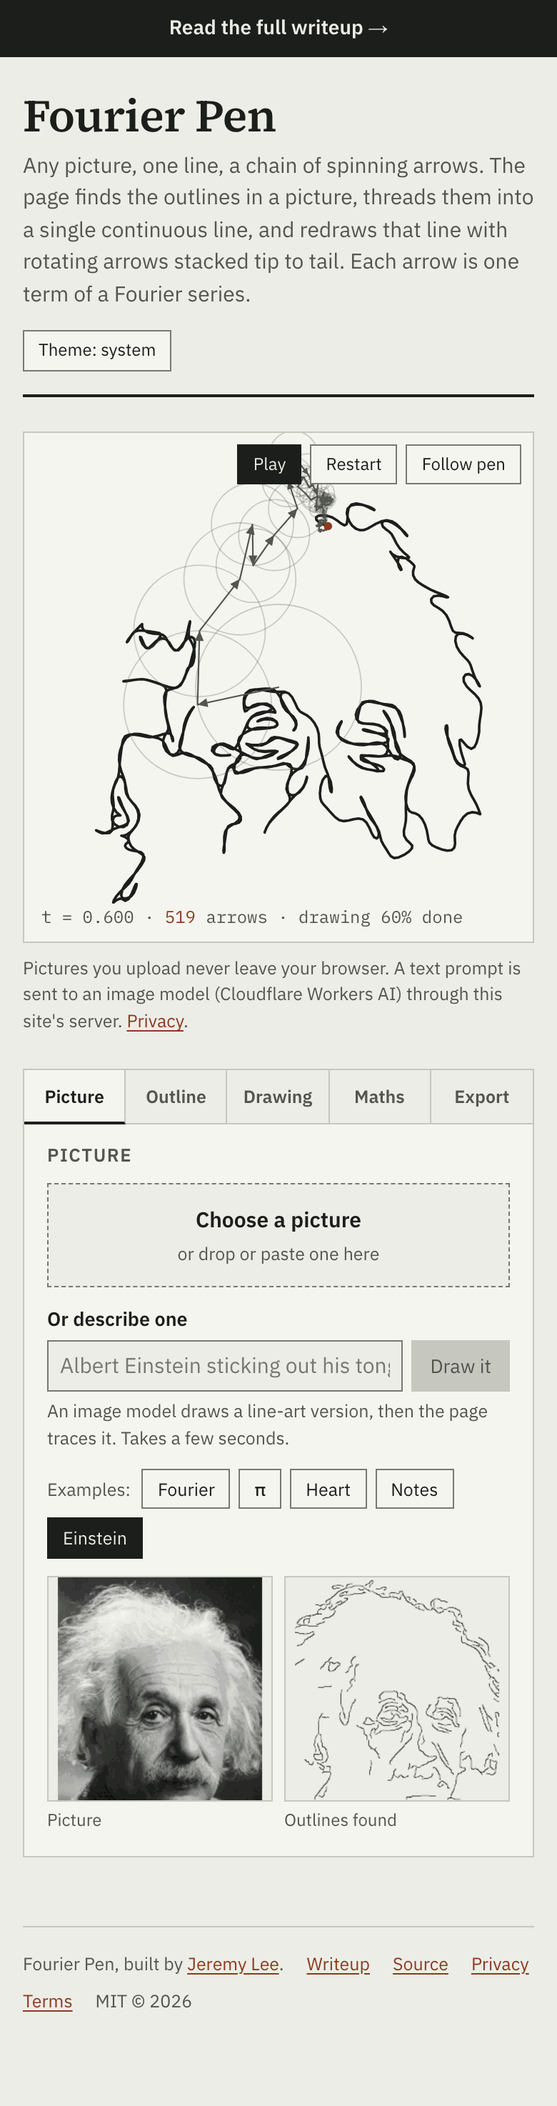
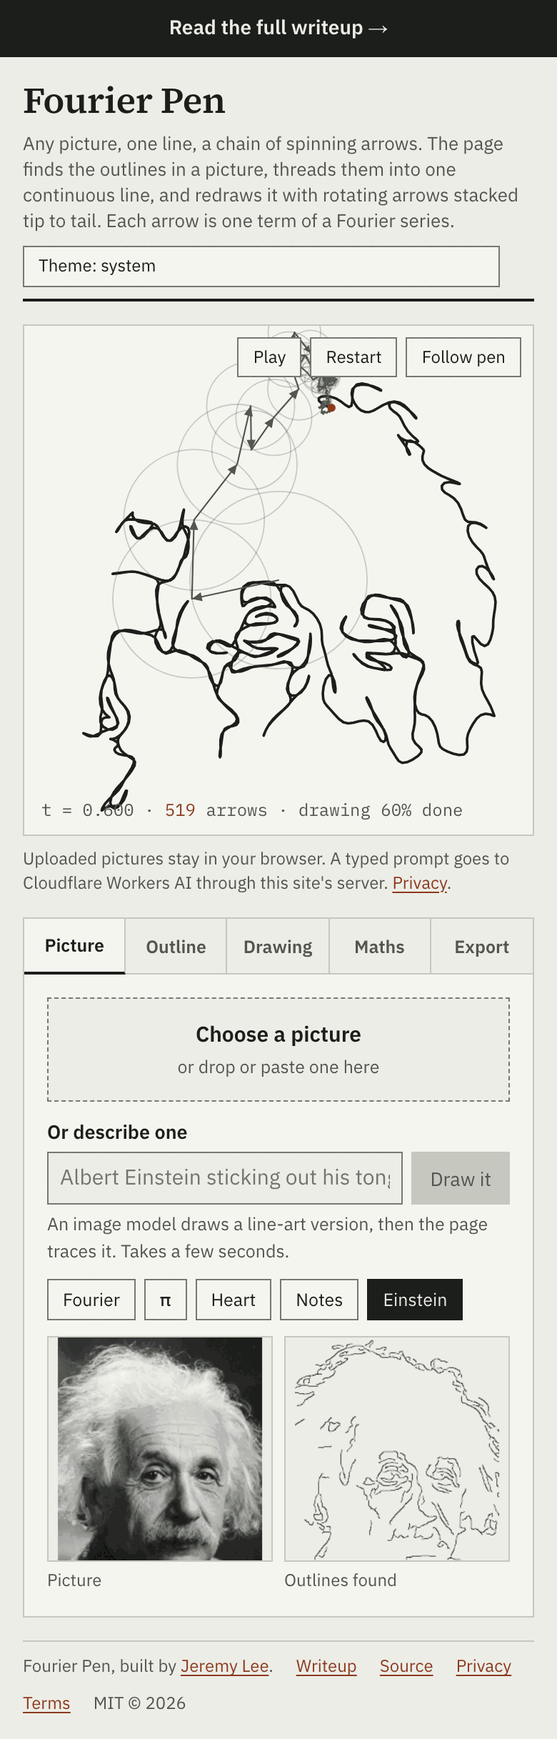
Fit the whole page on one desktop screen
Stage and panel share a viewport-derived height, the header is one row,
the footer one line, export buttons are a compact grid, and the maths
tab shows eight arrows. Measured zero page overflow at 1920x969,
1512x862, 1440x790 and 1280x680. The writeup gains a whole-screen
figure and fresh panel captures.

Changed region(s): [[0.0308, 0.1873, 0.9538, 0.9992], [0.0, 0.0, 1.0, 0.1873]]

diff --git a/styles.css b/styles.css
@@ -29,7 +29,10 @@ html{-webkit-text-size-adjust:100%}
 body{margin:0;background:var(--paper);color:var(--ink);font-family:var(--font-body);
   font-size:15px;line-height:1.5;-webkit-font-smoothing:antialiased;
   padding-left:max(16px,env(safe-area-inset-left,0px));padding-right:max(16px,env(safe-area-inset-right,0px));
-  padding-bottom:var(--s5)}
+  padding-bottom:var(--s2)}
+/* Desktop: the stage and the panel share one height, sized so the whole page fits the viewport.
+   220px is the writeup bar, header, note, footer and gaps. */
+:root{--fit:clamp(420px,calc(100vh - 220px),1400px)}
 a{color:var(--signal);text-underline-offset:2px}
 a:hover{color:var(--ink)}
 a:focus-visible,button:focus-visible,input:focus-visible,select:focus-visible,[tabindex]:focus-visible,.drop:focus-within{
@@ -43,20 +46,19 @@ a:focus-visible,button:focus-visible,input:focus-visible,select:focus-visible,[t
   font:600 14px/1.4 var(--font-body);text-decoration:none}
 .writeup-bar:hover{color:var(--paper);text-decoration:underline}
 
-.app{max-width:1280px;margin:0 auto;display:grid;gap:var(--s3);padding-top:var(--s3)}
-header.top{display:grid;grid-template-columns:minmax(0,1fr) auto;gap:var(--s1) var(--s3);align-items:start;
-  border-bottom:2px solid var(--ink);padding-bottom:var(--s2)}
-h1{font-family:var(--font-head);font-weight:600;font-size:clamp(2rem,4vw,3.05rem);line-height:1.1;margin:0 0 6px;letter-spacing:-.01em}
-.tagline{margin:0;color:var(--ink-2);max-width:68ch;text-wrap:pretty}
-.top-tools{padding-top:6px}
+.app{max-width:1400px;margin:0 auto;display:grid;gap:var(--s2);padding-top:var(--s2)}
+header.top{display:grid;grid-template-columns:auto minmax(0,1fr) auto;gap:var(--s1) var(--s3);align-items:center;
+  border-bottom:2px solid var(--ink);padding-bottom:var(--s1)}
+h1{font-family:var(--font-head);font-weight:600;font-size:clamp(1.6rem,2.6vw,2.2rem);line-height:1.1;margin:0;letter-spacing:-.01em;white-space:nowrap}
+.tagline{margin:0;color:var(--ink-2);max-width:78ch;font-size:13px;line-height:1.4;text-wrap:pretty}
 
-.layout{display:grid;grid-template-columns:minmax(0,1fr) 360px;gap:var(--s3);align-items:start}
+.layout{display:grid;grid-template-columns:minmax(0,1fr) 360px;gap:var(--s2);align-items:start}
 @media (max-width:880px){.layout{grid-template-columns:minmax(0,1fr)}}
 
 /* Stage */
 .stage-wrap{display:grid;gap:var(--s1)}
-.stage{position:relative;width:100%;aspect-ratio:5/4;background:var(--panel);border:1px solid var(--rule);overflow:hidden}
-@media (max-width:880px){.stage{aspect-ratio:1/1}}
+.stage{position:relative;width:100%;height:var(--fit);background:var(--panel);border:1px solid var(--rule);overflow:hidden}
+@media (max-width:880px){.stage{height:auto;aspect-ratio:1/1}}
 #stage{position:absolute;inset:0;width:100%;height:100%;display:block;touch-action:none}
 .stage-bar{position:absolute;top:var(--s1);right:var(--s1);left:var(--s1);display:flex;justify-content:space-between;gap:var(--s1);pointer-events:none}
 .stage-bar>*{pointer-events:auto}
@@ -67,11 +69,11 @@ h1{font-family:var(--font-head);font-weight:600;font-size:clamp(2rem,4vw,3.05rem
 .status>div{background:var(--paper);border:1px solid var(--edge);padding:var(--s2);max-width:34ch;text-align:center;font-size:14.5px;pointer-events:auto}
 .progress{position:absolute;left:0;right:0;bottom:0;height:4px;background:var(--rule)}
 .progress>i{display:block;height:100%;width:0;background:var(--signal)}
-.stage-note{margin:0;font-size:12.5px;color:var(--ink-2)}
+.stage-note{margin:0;font-size:12px;color:var(--ink-2);line-height:1.4}
 
 /* Panel */
-.panel{background:var(--panel);border:1px solid var(--rule);display:grid;align-content:start}
-@media (min-width:881px){.panel{position:sticky;top:var(--s2);max-height:calc(100vh - var(--s3));overflow-y:auto}}
+.panel{background:var(--panel);border:1px solid var(--rule);display:grid;align-content:start;min-width:0;overflow-x:hidden}
+@media (min-width:881px){.panel{height:var(--fit);overflow-y:auto;grid-template-rows:auto 1fr}}
 .tabs{display:grid;grid-template-columns:repeat(5,1fr);border-bottom:1px solid var(--rule);background:var(--paper)}
 .tab{font:600 12.5px/1 var(--font-body);color:var(--ink-2);background:var(--paper);border:0;border-right:1px solid var(--rule);padding:12px 4px;cursor:pointer;text-align:center}
 .tab:last-child{border-right:0}
@@ -84,7 +86,7 @@ h1{font-family:var(--font-head);font-weight:600;font-size:clamp(2rem,4vw,3.05rem
 .more[open] summary::after{content:"Hide"}
 .more summary::-webkit-details-marker{display:none}
 .more-body{display:grid;gap:12px;padding:0 10px 12px;border-top:1px solid var(--rule);padding-top:12px}
-.group{padding:var(--s2);display:grid;gap:12px}
+.group{padding:var(--s2);display:grid;gap:11px;align-content:start;min-width:0}
 .group h2{position:absolute;width:1px;height:1px;overflow:hidden;clip:rect(0 0 0 0);white-space:nowrap} /* the tab is the visible label */
 .drop{display:grid;gap:2px;padding:14px;border:1px dashed var(--edge);text-align:center;cursor:pointer;background:var(--paper)}
 .drop strong{font-weight:600}
@@ -122,7 +124,7 @@ input[type="color"]{width:100%;height:34px;padding:2px;background:var(--paper);b
 .toggles input{accent-color:var(--signal);width:16px;height:16px;margin:0}
 .row2{display:grid;grid-template-columns:1fr 1fr;gap:var(--s1);align-items:end}
 
-.formula{font-family:var(--font-head);font-size:19px;font-style:italic;text-align:center;padding:6px 0 2px;overflow-x:auto;white-space:nowrap}
+.formula{font-family:var(--font-head);font-size:18px;font-style:italic;text-align:center;padding:2px 0 0;overflow-x:auto;white-space:nowrap}
 .formula .frac{display:inline-flex;flex-direction:column;vertical-align:middle;font-size:13px;line-height:1.15;margin:0 2px}
 .formula .frac span:first-child{border-bottom:1px solid currentColor;padding:0 2px}
 .formula sub,.formula sup{font-size:.62em}
@@ -132,13 +134,14 @@ input[type="color"]{width:100%;height:34px;padding:2px;background:var(--paper);b
 .tbl-wrap{overflow-x:auto}
 table.coef{width:100%;border-collapse:collapse;font-size:12px}
 table.coef th{text-align:left;font-weight:600;color:var(--ink-2);font-size:11px;text-transform:uppercase;letter-spacing:.06em;padding:4px 6px 4px 0;border-bottom:2px solid var(--ink);white-space:nowrap}
-table.coef td{padding:3px 6px 3px 0;border-bottom:1px solid var(--rule);vertical-align:top}
+table.coef td{padding:2px 6px 2px 0;border-bottom:1px solid var(--rule);vertical-align:top}
 table.coef th.num,table.coef td.num{font-family:var(--font-mono);text-align:right;font-variant-numeric:tabular-nums}
 table.coef td:first-child{color:var(--ink-2)}
 table.coef td .bar{display:inline-block;height:6px;background:var(--signal-2);vertical-align:middle;margin-right:6px}
-dl.stats{display:grid;grid-template-columns:1fr auto;gap:4px 12px;margin:0;font-size:13px}
+dl.stats{display:grid;grid-template-columns:1fr auto;gap:2px 12px;margin:0;font-size:12.5px}
 dl.stats dt{color:var(--ink-2)}
-dl.stats dd{margin:0;text-align:right;font:12.5px var(--font-mono);font-variant-numeric:tabular-nums}
+dl.stats dd{margin:0;text-align:right;font:12px var(--font-mono);font-variant-numeric:tabular-nums;white-space:nowrap}
+dl.stats-2{grid-template-columns:1fr auto}
 
 .btn{font-family:var(--font-body);font-size:13.5px;line-height:1.2;padding:9px 12px;background:var(--panel);color:var(--ink);border:1px solid var(--edge);cursor:pointer;text-align:left}
 .btn:hover:not(:disabled){background:var(--paper);border-color:var(--ink)}
@@ -148,13 +151,13 @@ dl.stats dd{margin:0;text-align:right;font:12.5px var(--font-mono);font-variant-
 .btn-primary:disabled{background:var(--rule);border-color:var(--rule);color:var(--ink-2)}
 .btn-small{font-size:12px;padding:6px 10px}
 .btn[aria-pressed="true"]{background:var(--ink);color:var(--paper);border-color:var(--ink)}
-.save-row{display:grid;gap:6px}
-.btn.save{display:flex;justify-content:space-between;gap:var(--s1)}
-.btn.save span{color:var(--ink-2);font-size:12px}
-.btn.save:disabled span{color:var(--ink-2)}
+.save-grid{display:grid;grid-template-columns:repeat(3,1fr);gap:6px}
+.btn.save{display:grid;gap:2px;text-align:center;padding:8px 4px}
+.btn.save b{font-weight:600;font-size:13.5px}
+.btn.save span{color:var(--ink-2);font-size:11.5px;white-space:nowrap;overflow:hidden;text-overflow:ellipsis}
 .export-preview{margin:0;display:grid;gap:4px}
-.export-preview canvas{display:block;max-width:240px;width:100%;height:auto;border:1px solid var(--rule);background:var(--paper)}
-.export-preview figcaption{font-size:12px;color:var(--ink-2);font-family:var(--font-mono)}
+.export-preview canvas{display:block;max-width:200px;width:100%;height:auto;border:1px solid var(--rule);background:var(--paper)}
+.export-preview figcaption{font-size:11.5px;color:var(--ink-2);font-family:var(--font-mono);white-space:nowrap;overflow:hidden;text-overflow:ellipsis}
 
 /* Skeleton: flat fill with an opacity pulse. Never a gradient sweep. */
 .skeleton{background:var(--rule);height:14px;margin-bottom:var(--s1)}
@@ -162,7 +165,7 @@ dl.stats dd{margin:0;text-align:right;font:12.5px var(--font-mono);font-variant-
   .skeleton{animation:ledger-sk 1.6s ease-in-out infinite}
   @keyframes ledger-sk{0%,100%{opacity:1}50%{opacity:.55}}}
 
-.site-footer{margin-top:var(--s3);padding-top:var(--s2);border-top:1px solid var(--rule);font-size:12.5px;color:var(--ink-2);display:flex;flex-wrap:wrap;gap:var(--s1) var(--s2)}
+.site-footer{margin-top:0;padding-top:var(--s1);border-top:1px solid var(--rule);font-size:12px;color:var(--ink-2);display:flex;flex-wrap:wrap;gap:var(--s1) var(--s2)}
 
 /* Document pages (privacy, terms) */
 body.doc{padding-bottom:var(--s6)}
@@ -174,7 +177,8 @@ body.doc .meta{font-size:.8rem;text-transform:uppercase;letter-spacing:.06em;col
 body.doc .lede{font-family:var(--font-head);font-size:1.25rem;color:var(--ink-2)}
 body.doc .site-footer a{margin-right:var(--s2)}
 
+@media (max-width:880px){header.top{grid-template-columns:1fr auto}header.top .tagline{grid-column:1 / -1}header.top .btn{justify-self:end}h1{white-space:normal}}
 @media (max-width:600px){
-  header.top{grid-template-columns:1fr}
   .row2{grid-template-columns:1fr}
+  .save-grid{grid-template-columns:repeat(2,1fr)}
 }

diff --git a/index.html b/index.html
@@ -22,13 +22,9 @@ try { var t = localStorage.getItem('fourier-pen-theme'); if (t === 'light' || t 
 
 <div class="app" id="main">
   <header class="top">
-    <div>
-      <h1>Fourier Pen</h1>
-      <p class="tagline">Any picture, one line, a chain of spinning arrows. The page finds the outlines in a picture, threads them into a single continuous line, and redraws that line with rotating arrows stacked tip to tail. Each arrow is one term of a Fourier series.</p>
-    </div>
-    <div class="top-tools">
-      <button class="btn btn-small" type="button" id="theme" aria-pressed="false">Theme: system</button>
-    </div>
+    <h1>Fourier Pen</h1>
+    <p class="tagline">Any picture, one line, a chain of spinning arrows. The page finds the outlines in a picture, threads them into one continuous line, and redraws it with rotating arrows stacked tip to tail. Each arrow is one term of a Fourier series.</p>
+    <button class="btn btn-small" type="button" id="theme" aria-pressed="false">Theme: system</button>
   </header>
 
   <div class="layout">
@@ -39,7 +35,7 @@ try { var t = localStorage.getItem('fourier-pen-theme'); if (t === 'light' || t 
         <div class="stage-bar">
           <span></span>
           <div class="btn-row">
-            <button class="btn btn-small" id="play" type="button" aria-pressed="false">Pause</button>
+            <button class="btn btn-small" id="play" type="button">Pause</button>
             <button class="btn btn-small" id="restart" type="button">Restart</button>
             <button class="btn btn-small" id="follow" type="button" aria-pressed="false">Follow pen</button>
           </div>
@@ -47,7 +43,7 @@ try { var t = localStorage.getItem('fourier-pen-theme'); if (t === 'light' || t 
         <div class="readout" id="readout" aria-live="off">Preparing</div>
         <div class="progress" id="progress" hidden><i></i></div>
       </div>
-      <p class="stage-note">Pictures you upload never leave your browser. A text prompt is sent to an image model (Cloudflare Workers AI) through this site's server. <a href="privacy/">Privacy</a>.</p>
+      <p class="stage-note">Uploaded pictures stay in your browser. A typed prompt goes to Cloudflare Workers AI through this site's server. <a href="privacy/">Privacy</a>.</p>
     </section>
 
     <aside class="panel">
@@ -73,8 +69,7 @@ try { var t = localStorage.getItem('fourier-pen-theme'); if (t === 'light' || t 
           </div>
           <span class="hint" id="promptHint">An image model draws a line-art version, then the page traces it. Takes a few seconds.</span>
         </div>
-        <div class="samples">
-          <span>Examples:</span>
+        <div class="samples" aria-label="Examples">
           <button class="chip" type="button" data-sample="word" aria-pressed="true">Fourier</button>
           <button class="chip" type="button" data-sample="pi" aria-pressed="false">&pi;</button>
           <button class="chip" type="button" data-sample="heart" aria-pressed="false">Heart</button>
@@ -143,7 +138,7 @@ try { var t = localStorage.getItem('fourier-pen-theme'); if (t === 'light' || t 
         <div class="formula" aria-label="c sub n equals one over N times the sum over k of z sub k times e to the minus 2 pi i n k over N">
           c<sub>n</sub> = <span class="frac"><span>1</span><span>N</span></span> &Sigma;<sub>k</sub> z<sub>k</sub> e<sup>&minus;2&pi;ink/N</sup>
         </div>
-        <p class="small">Each point on the line is a complex number z<sub>k</sub>. Each coefficient c<sub>n</sub> is one arrow: its size is |c<sub>n</sub>|, and it turns n times per drawing. The biggest arrows are drawn first.</p>
+        <p class="small">Each point z<sub>k</sub> is a complex number. Each c<sub>n</sub> is one arrow: |c<sub>n</sub>| its length, arg c<sub>n</sub> its start angle, n its turns per drawing.</p>
         <div class="eq" id="eq">z(t) &asymp; &hellip;</div>
         <div class="tbl-wrap">
           <table class="coef">
@@ -151,15 +146,15 @@ try { var t = localStorage.getItem('fourier-pen-theme'); if (t === 'light' || t 
             <tbody id="coefBody"></tbody>
           </table>
         </div>
-        <p class="small">The 10 largest arrows for the current picture, with t running from 0 to 1 over one drawing. Lengths are in picture units, where the drawing spans &minus;1 to 1. Angles are in radians.</p>
-        <dl class="stats">
+        <p class="small">The 8 largest arrows. t runs 0 to 1 per drawing; lengths in picture units (span &minus;1 to 1); angles in radians.</p>
+        <dl class="stats stats-2">
           <dt>Edge pixels</dt><dd id="stEdges">&ndash;</dd>
-          <dt>Strokes threaded</dt><dd id="stStrokes">&ndash;</dd>
-          <dt id="stLinkLabel">Bridges added</dt><dd id="stLinks">&ndash;</dd>
           <dt>Points</dt><dd id="stPoints">&ndash;</dd>
+          <dt>Strokes</dt><dd id="stStrokes">&ndash;</dd>
           <dt>Arrows in use</dt><dd id="stArrows">&ndash;</dd>
-          <dt>Shape energy captured</dt><dd id="stEnergy">&ndash;</dd>
-          <dt>Transform time</dt><dd id="stTime">&ndash;</dd>
+          <dt id="stLinkLabel">Bridges</dt><dd id="stLinks">&ndash;</dd>
+          <dt>Energy kept</dt><dd id="stEnergy">&ndash;</dd>
+          <dt>Transform</dt><dd id="stTime">&ndash;</dd>
         </dl>
       </div>
 
@@ -199,12 +194,12 @@ try { var t = localStorage.getItem('fourier-pen-theme'); if (t === 'light' || t 
           <canvas id="expPrev" width="240" height="240"></canvas>
           <figcaption id="expSummary"></figcaption>
         </figure>
-        <div class="save-row">
-          <button class="btn save" type="button" id="savePng" disabled>Picture <span>PNG</span></button>
-          <button class="btn save" type="button" id="saveSvg" disabled>Picture <span>SVG, vector</span></button>
-          <button class="btn save" type="button" id="saveCsv" disabled>Every arrow's numbers <span>CSV</span></button>
-          <button class="btn save" type="button" id="saveWebm" disabled>Video of one drawing <span id="webmNote">WebM</span></button>
-          <button class="btn save" type="button" id="saveMp4" disabled hidden>Video of one drawing <span>MP4</span></button>
+        <div class="save-grid">
+          <button class="btn save" type="button" id="savePng" disabled><b>PNG</b><span>picture</span></button>
+          <button class="btn save" type="button" id="saveSvg" disabled><b>SVG</b><span>vector</span></button>
+          <button class="btn save" type="button" id="saveCsv" disabled><b>CSV</b><span>every arrow</span></button>
+          <button class="btn save" type="button" id="saveWebm" disabled><b>WebM</b><span id="webmNote">video</span></button>
+          <button class="btn save" type="button" id="saveMp4" disabled hidden><b>MP4</b><span>video</span></button>
         </div>
         <p class="small" id="saveMsg">Saves the drawing as it looks with the current number of arrows.</p>
       </div>

diff --git a/overview/index.html b/overview/index.html
@@ -365,6 +365,23 @@
   </section>
 
   <section class="stop">
+    <p class="eyebrow">&darr; the whole tool</p>
+    <h2>One screen, no scrolling</h2>
+    <p>
+      The drawing takes the left of the screen and every control lives in a tabbed panel
+      on the right: Picture, Outline, Drawing, Maths, Export. Both are sized to the
+      viewport, so on a Full HD monitor or a MacBook the page never scrolls and the
+      drawing stays in view while anything is adjusted. Light and dark themes follow the
+      system, with a toggle in the header.
+    </p>
+    <figure>
+      <img width="1600" height="878" class="shot" src="desktop-page.png" loading="lazy"
+        alt="The whole Fourier Pen page at 1440 by 790 pixels: the Einstein drawing in progress on the left stage with Play, Restart and Follow pen buttons, and the tabbed panel on the right showing the Picture tab with the drop zone, prompt field, example chips and two previews. Nothing is cut off and there is no scrollbar." />
+      <figcaption>The page at a 13-inch MacBook Air's viewport size, captured 2026-10-14. Stage and panel share one height.</figcaption>
+    </figure>
+  </section>
+
+  <section class="stop">
     <p class="eyebrow">&darr; watching it</p>
     <h2>Follow the pen</h2>
     <p>
@@ -380,14 +397,14 @@
     </figure>
     <p style="margin-top:26px">
       Beside the drawing the page shows the numbers it is using: the live equation with
-      the three largest terms, the ten largest arrows as a table (frequency, length,
+      the three largest terms, the eight largest arrows as a table (frequency, length,
       starting angle), and how much of the shape's energy, &Sigma;|c<sub>n</sub>|&sup2;,
       the current arrow count captures. Every one of those numbers is also in the CSV
       export, all N rows.
     </p>
     <figure>
-      <img width="900" height="2043" class="shot shot--narrow" src="maths-group.png" loading="lazy"
-        alt="The Maths tab: the coefficient formula, a live equation starting z(t) equals 0.329 e to the i(minus 1 times 2 pi t plus 1.70), a table of the ten largest arrows with turns, length bars and start angles, and a list of statistics ending with the transform time." />
+      <img width="900" height="1428" class="shot shot--narrow" src="maths-group.png" loading="lazy"
+        alt="The Maths tab: the coefficient formula, a live equation starting z(t) equals 0.379 e to the i(2 times 2 pi t plus 1.67), a table of the eight largest arrows with turns, length bars and start angles, and a list of statistics ending with the transform time." />
       <figcaption>The Maths tab for the Einstein example. The length bars are the only use of the second accent colour on the page.</figcaption>
     </figure>
   </section>
@@ -405,7 +422,7 @@
       the browser can encode it.
     </p>
     <figure>
-      <img width="900" height="1915" class="shot shot--narrow" src="export-group.png" loading="lazy"
+      <img width="900" height="1428" class="shot shot--narrow" src="export-group.png" loading="lazy"
         alt="The Export tab of the panel: a size preset select reading Square 2,048 by 2,048, a closed disclosure for colours, line width and margin, a square preview of the Einstein drawing with a mono caption, and buttons for PNG, SVG, CSV, WebM and MP4." />
       <figcaption>The Export tab. The colour, line-width and margin controls sit behind the disclosure; the preview updates as any of them change.</figcaption>
     </figure>
@@ -430,7 +447,7 @@
       function sees.
     </p>
     <figure>
-      <img width="900" height="1385" class="shot shot--narrow" src="source-group.png" loading="lazy"
+      <img width="900" height="1428" class="shot shot--narrow" src="source-group.png" loading="lazy"
         alt="The Picture tab of the panel under a five-tab strip: a dashed drop zone, a text field with the placeholder Albert Einstein sticking out his tongue and a Draw it button, five example chips, and two previews showing the Einstein photograph and its detected outlines." />
       <figcaption>The Picture tab: upload, describe, or pick an example. The right preview is the Canny edge map the strokes are traced from. The other four tabs hold the outline, drawing, maths and export controls.</figcaption>
     </figure>
@@ -445,7 +462,7 @@
       is a file picker on touch screens.
     </p>
     <figure>
-      <img width="780" height="2948" class="shot shot--narrow" src="mobile.png" loading="lazy"
+      <img width="780" height="2434" class="shot shot--narrow" src="mobile.png" loading="lazy"
         alt="Fourier Pen on a 390 pixel wide phone screen: the square drawing stage at the top with the Einstein line drawing in progress, then the tabbed panel below it showing the Picture tab." />
       <figcaption>390 px wide. The stage goes square and the tabbed panel sits below it. No horizontal scroll.</figcaption>
     </figure>

diff --git a/js/main.js b/js/main.js
@@ -133,7 +133,7 @@ function renderNumbers() {
   let html = 'z(t) ≈ ' + app.model.coeffs.slice(0, show).map(termHTML).join(' + ');
   if (K > show) html += ` + … (${fmt(K - show)} more)`;
   ui.eq.innerHTML = html;
-  const top = app.model.coeffs.slice(0, Math.min(10, K)), maxA = top[0].amp || 1;
+  const top = app.model.coeffs.slice(0, Math.min(8, K)), maxA = top[0].amp || 1;
   ui.coefBody.innerHTML = top.map((c, i) =>
     `<tr><td>${i + 1}</td><td class="num">${num(c.f, 0)}</td><td class="num"><span class="bar" style="width:${Math.max(2, Math.round((c.amp / maxA) * 36))}px"></span>${c.amp.toFixed(4)}</td><td class="num">${num(phaseOf(c), 3)}</td></tr>`
   ).join('');
@@ -146,7 +146,7 @@ function initExport() {
   const mimes = videoMimes();
   const webm = mimes.find((m) => m.ext === 'webm'), mp4 = mimes.find((m) => m.ext === 'mp4');
   app.video = { webm, mp4 };
-  if (!webm && !mp4) { ui.webmNote.textContent = 'Not available in this browser'; }
+  if (!webm && !mp4) { ui.webmNote.textContent = 'not in this browser'; }
   else if (!webm && mp4) { ui.saveWebm.hidden = true; }
   if (mp4) ui.saveMp4.hidden = false;
 }
@@ -157,7 +157,7 @@ function updateExportPreview() {
     const o = exportOpts();
     ui.customRow.hidden = ui.preset.value !== 'custom';
     ui.sizeOut.textContent = `${fmt(o.width)} × ${fmt(o.height)} px`;
-    const c = ui.expPrev, maxSide = 240;
+    const c = ui.expPrev, maxSide = 200;
     const sc = maxSide / Math.max(o.width, o.height);
     const pw = Math.max(16, Math.round(o.width * sc)), ph = Math.max(16, Math.round(o.height * sc));
     c.width = pw; c.height = ph;
@@ -308,13 +308,13 @@ function frame(now) {
   drawScene(stage.ctx, stage.w, stage.h, {
     model: app.model, curve: app.curve, K: app.K, t: app.t, laps: app.laps,
     follow: app.follow, focus: app.focus, showCircles: ui.circles.checked, showJumps: !ui.modeOne.checked && ui.jumps.checked,
-    colors: app.sceneColors, lineWidth: 1.8, showFinished: true,
+    colors: app.sceneColors, lineWidth: 1.8, showFinished: true, scaleFrac: 0.46,
   }, chain);
   updateReadout();
   requestAnimationFrame(frame);
 }
 
-function setPlaying(p) { app.playing = p; ui.play.textContent = p ? 'Pause' : 'Play'; ui.play.setAttribute('aria-pressed', String(!p)); }
+function setPlaying(p) { app.playing = p; ui.play.textContent = p ? 'Pause' : 'Play'; }
 ui.play.addEventListener('click', () => setPlaying(!app.playing));
 ui.restart.addEventListener('click', () => {
   if (app.recording && videoAbort) { videoAbort.abort(); return; }

diff --git a/js/ui.js b/js/ui.js
@@ -44,7 +44,7 @@ export function syncMode() {
   const one = ui.modeOne.checked;
   ui.jumpsRow.hidden = one;
   ui.expJumpsRow.hidden = one;
-  ui.stLinkLabel.textContent = one ? 'Bridges added' : 'Pen jumps';
+  ui.stLinkLabel.textContent = one ? 'Bridges' : 'Pen jumps';
   ui.modeHint.textContent = one
     ? 'Strokes are joined by the shortest bridges, and the pen backtracks over its own ink instead of jumping.'
     : 'The pen finishes a stroke, then cuts straight across to the nearest unfinished one.';

diff --git a/docs/design.md b/docs/design.md
@@ -29,11 +29,11 @@ Self-hosted in `fonts/`: Source Serif 4 (400, 600) for the title and the formula
 
 ## 4. Layout
 
-Two columns from 881 px: the stage takes the remaining width, the panel is 360 px. Below 880 px they stack, stage first. Max width 1280 px, 16 px gutters, safe-area insets respected. Stage aspect 5:4 on desktop, 1:1 on phones. Stage buttons sit top right inside the stage; the mono readout bottom left; a 4 px progress bar along the bottom edge during video export.
+One screen on desktop. From 881 px the page is two columns, stage then a 360 px panel, and both are exactly `--fit` tall: `clamp(420px, 100vh - 220px, 1400px)`, where 220 px is the writeup bar, the one-row header, the note, the footer and the gaps. The page itself does not scroll on a Full HD or MacBook display; a tab taller than the panel scrolls inside the panel. The header is one row: title, tagline at 13 px, theme button. Max width 1400 px, 16 px gutters, safe-area insets respected. Below 880 px the stage is square and the panel stacks beneath it. Stage buttons sit top right inside the stage; the mono readout bottom left; a 4 px progress bar along the bottom edge during video export.
 
 A "Read the full writeup" bar sits above the page, as on the sibling tools.
 
-The panel is sticky on desktop (top 16 px, scrolls inside itself if a tab is taller than the viewport) and shows one group at a time behind a five-tab strip: Picture, Outline, Drawing, Maths, Export. The strip sits on `--paper`; the selected tab is on `--panel` with a 2 px ink underline, no fill, no transition. Arrow keys move between tabs. Export shows the size preset, custom width and height (Custom only), a 240 px live preview with a mono caption and the five save buttons; line width, colours, transparent background, jumps, swap and margin sit behind a bordered disclosure labelled "Colours, line width and margin".
+The panel is sticky on desktop (top 16 px, scrolls inside itself if a tab is taller than the viewport) and shows one group at a time behind a five-tab strip: Picture, Outline, Drawing, Maths, Export. The strip sits on `--paper`; the selected tab is on `--panel` with a 2 px ink underline, no fill, no transition. Arrow keys move between tabs. Export shows the size preset, custom width and height (Custom only), a 200 px live preview with a one-line mono caption and five compact save buttons in a three-column grid (format in bold, purpose beneath); line width, colours, transparent background, jumps, swap and margin sit behind a bordered disclosure labelled "Colours, line width and margin".
 
 ## 5. Components
 

diff --git a/docs/decisions.md b/docs/decisions.md
@@ -130,6 +130,12 @@ A log of judgment calls, newest last. Each entry says what was decided, why, and
 **Why:** With five groups stacked, the panel ran to about four screens and the drawing scrolled out of view while adjusting anything. Tabs keep every control one click away with the stage always visible. The groups keep their ids, so nothing in the pipeline code changed.
 **Rules out:** An accordion (two groups open at once looked like the old scroll), and moving the picture controls above the stage.
 
+## 2026-10-14: the page fits one screen on desktop
+
+**Decided:** On desktop the stage and the panel are both `clamp(420px, 100vh - 220px, 1400px)` tall, the header is a single row, the footer is one line, and the Maths tab shows 8 arrows instead of 10. Measured with headless Chromium: zero page overflow at 1920 by 969, 1512 by 862, 1440 by 790 and 1280 by 680; the Maths tab scrolls inside the panel only below about 800 px of viewport height.
+**Why:** The owner asked for no scrolling on a Full HD or MacBook screen. A fixed 5:4 stage was taller than a MacBook viewport.
+**Rules out:** The 5:4 stage aspect on desktop. Phones keep the square stage and stack.
+
 ## 2026-10-14: N = 4,096 stays
 
 **Decided:** The points dropdown offers 512 to 4,096.

diff --git a/handoff.md b/handoff.md
@@ -57,6 +57,10 @@ cd ../_ai-projects-tooling/overview-pages && python3 build.py fragments/fourier-
 - `ffprobe` on this machine is broken (missing libx265), so the WebM was verified by size and by the browser's own recorder state, not by decoding.
 - Google Drive folder: large screenshot runs should go to the scratchpad, not the project folder, or Drive syncs them.
 
+## Layout check
+
+Desktop is designed to fit one screen: run `scratch/pw/fit.py` style checks (page scrollHeight minus innerHeight must be 0 at 1920x969, 1512x862, 1440x790, 1280x680). The Maths tab is allowed to scroll inside the panel below about 800 px of viewport height.
+
 ## Next steps
 
 1. Add the WAF rate-limit rule on `/api/generate` in the Vercel dashboard (Cloudflare's 10,000-neuron daily cap already bounds spending at zero, so this only protects the allowance). The Cloudflare token was pasted into a chat on 2026-10-14; rotate it in the Cloudflare profile's API Tokens page and update `CF_API_TOKEN` in Vercel. `CF_ACCOUNT_ID` and `CF_API_TOKEN` are set in Vercel for production and preview (account "Deep Tech Atlas"). The Gemini key was removed because its project has no image quota; the Gemini path stays in the code for a paid key.
